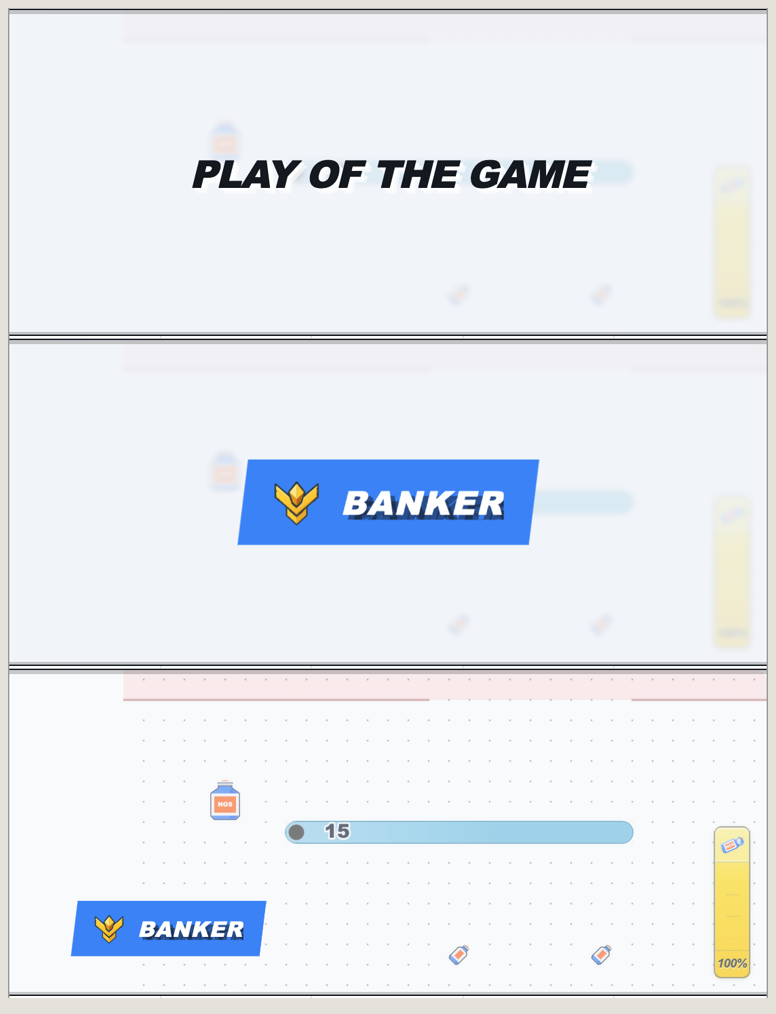
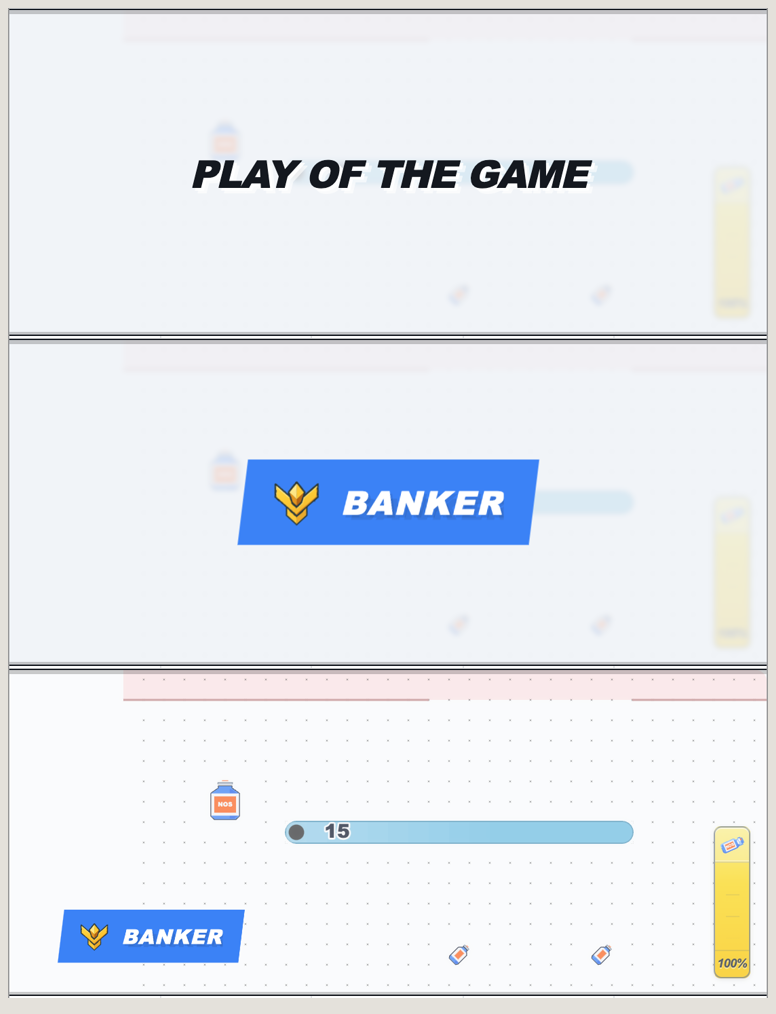
Lighten the star plate's shadow
At plate size VICTORY's full-strength stepped shadow read as a second,
blurred word behind the name. Pull it a pixel tighter and down to 10%: the
step is still there, but it now sits under the type instead of competing
with it.

Changed region(s): [[0.0619, 0.8866, 0.3402, 0.9477], [0.433, 0.4892, 0.6495, 0.5197]]

diff --git a/client/web/components/PlayOfTheGame.css b/client/web/components/PlayOfTheGame.css
@@ -244,11 +244,11 @@
   letter-spacing: 0.045em;
   line-height: 1;
   pointer-events: auto;
-  /* The same stepped shadow VICTORY wears, so the two headline plates in the
-     card are recognisably the same object at different sizes. */
+  /* VICTORY's stepped shadow, pulled a pixel tighter and much lighter: at
+     plate size the full-strength version reads as a second, blurred word. */
   text-shadow:
-    2px 2px 0 rgb(20 24 31 / 50%),
-    4px 4px 0 rgb(20 24 31 / 50%);
+    1px 1px 0 rgb(20 24 31 / 10%),
+    3px 3px 0 rgb(20 24 31 / 10%);
   text-transform: uppercase;
   white-space: nowrap;
   transform: skewX(-7deg);
